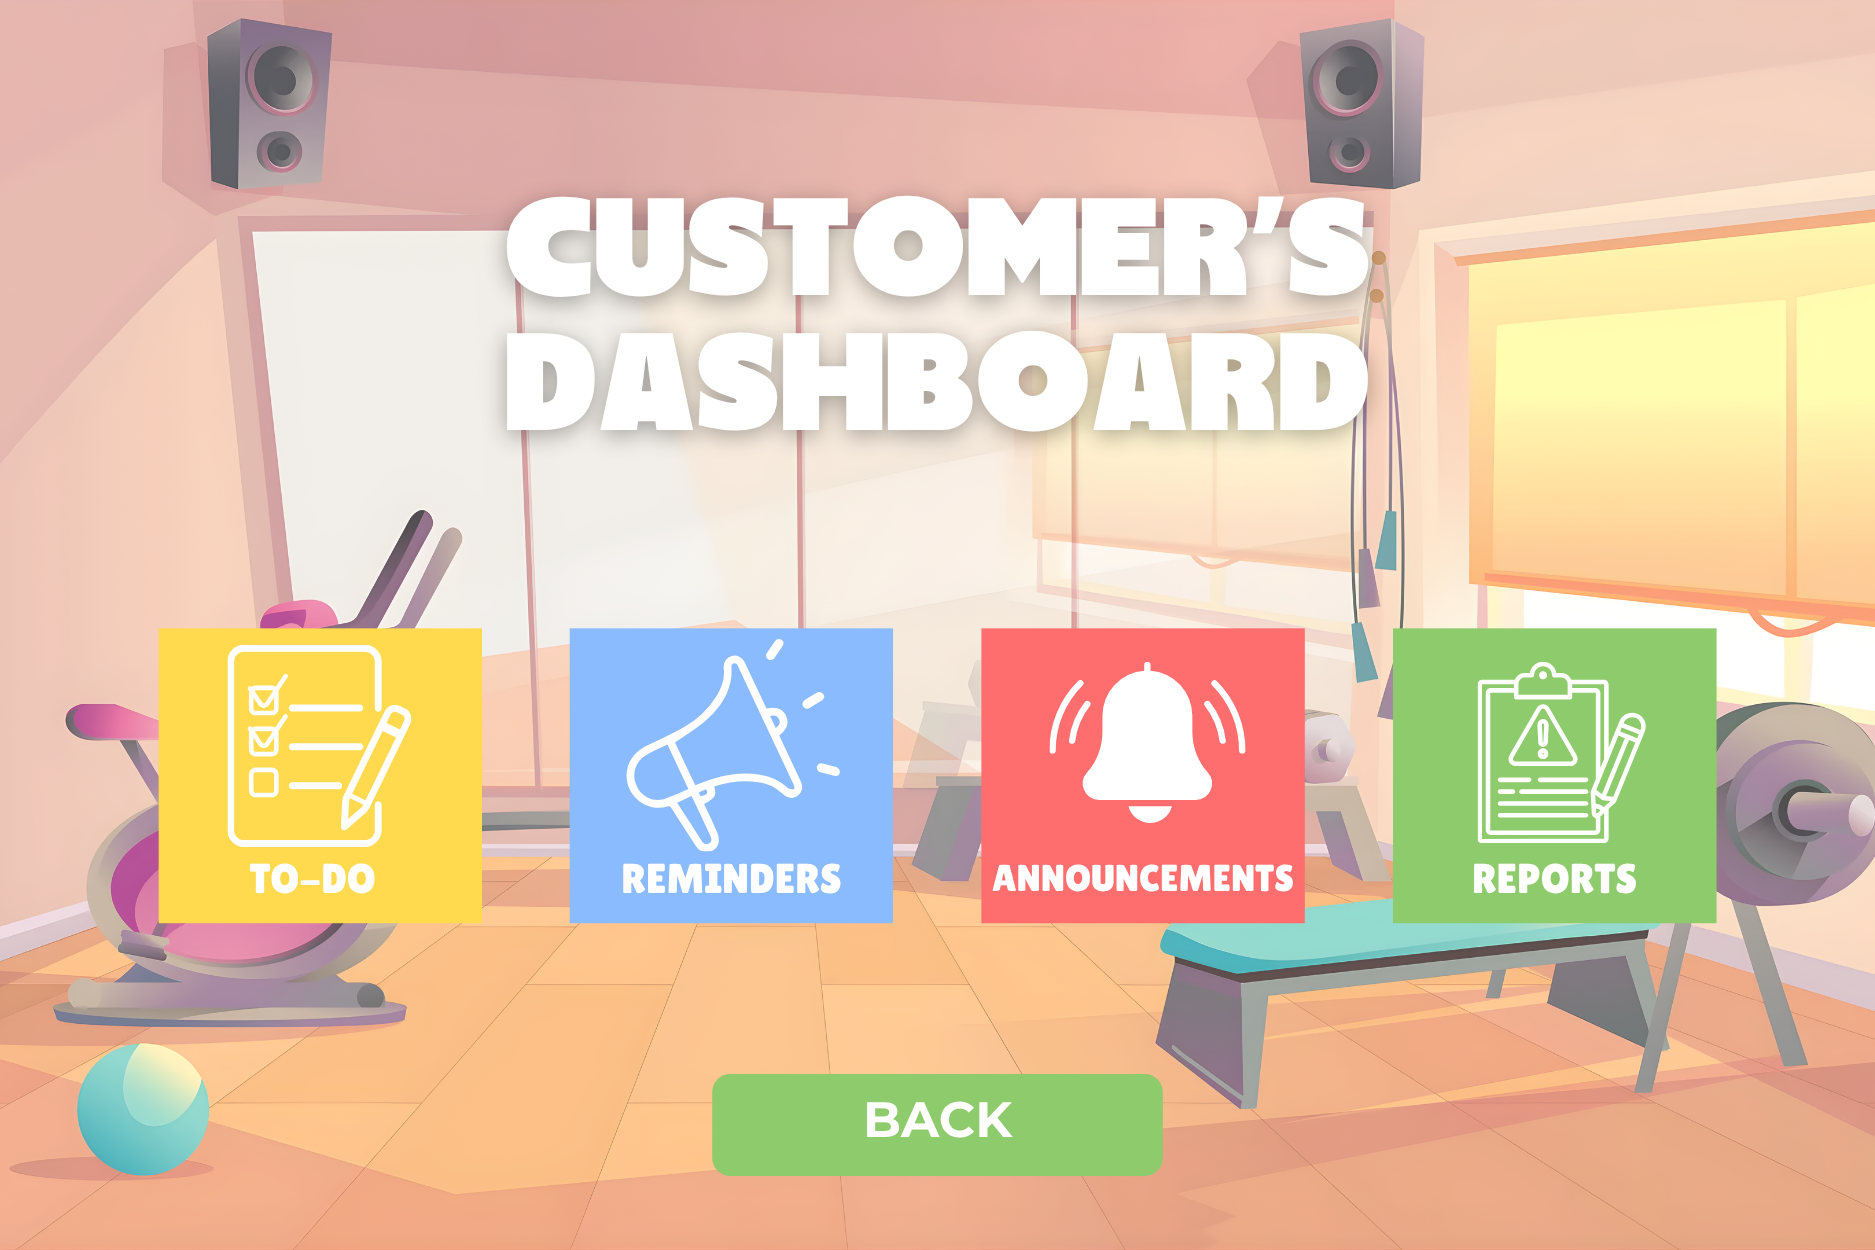
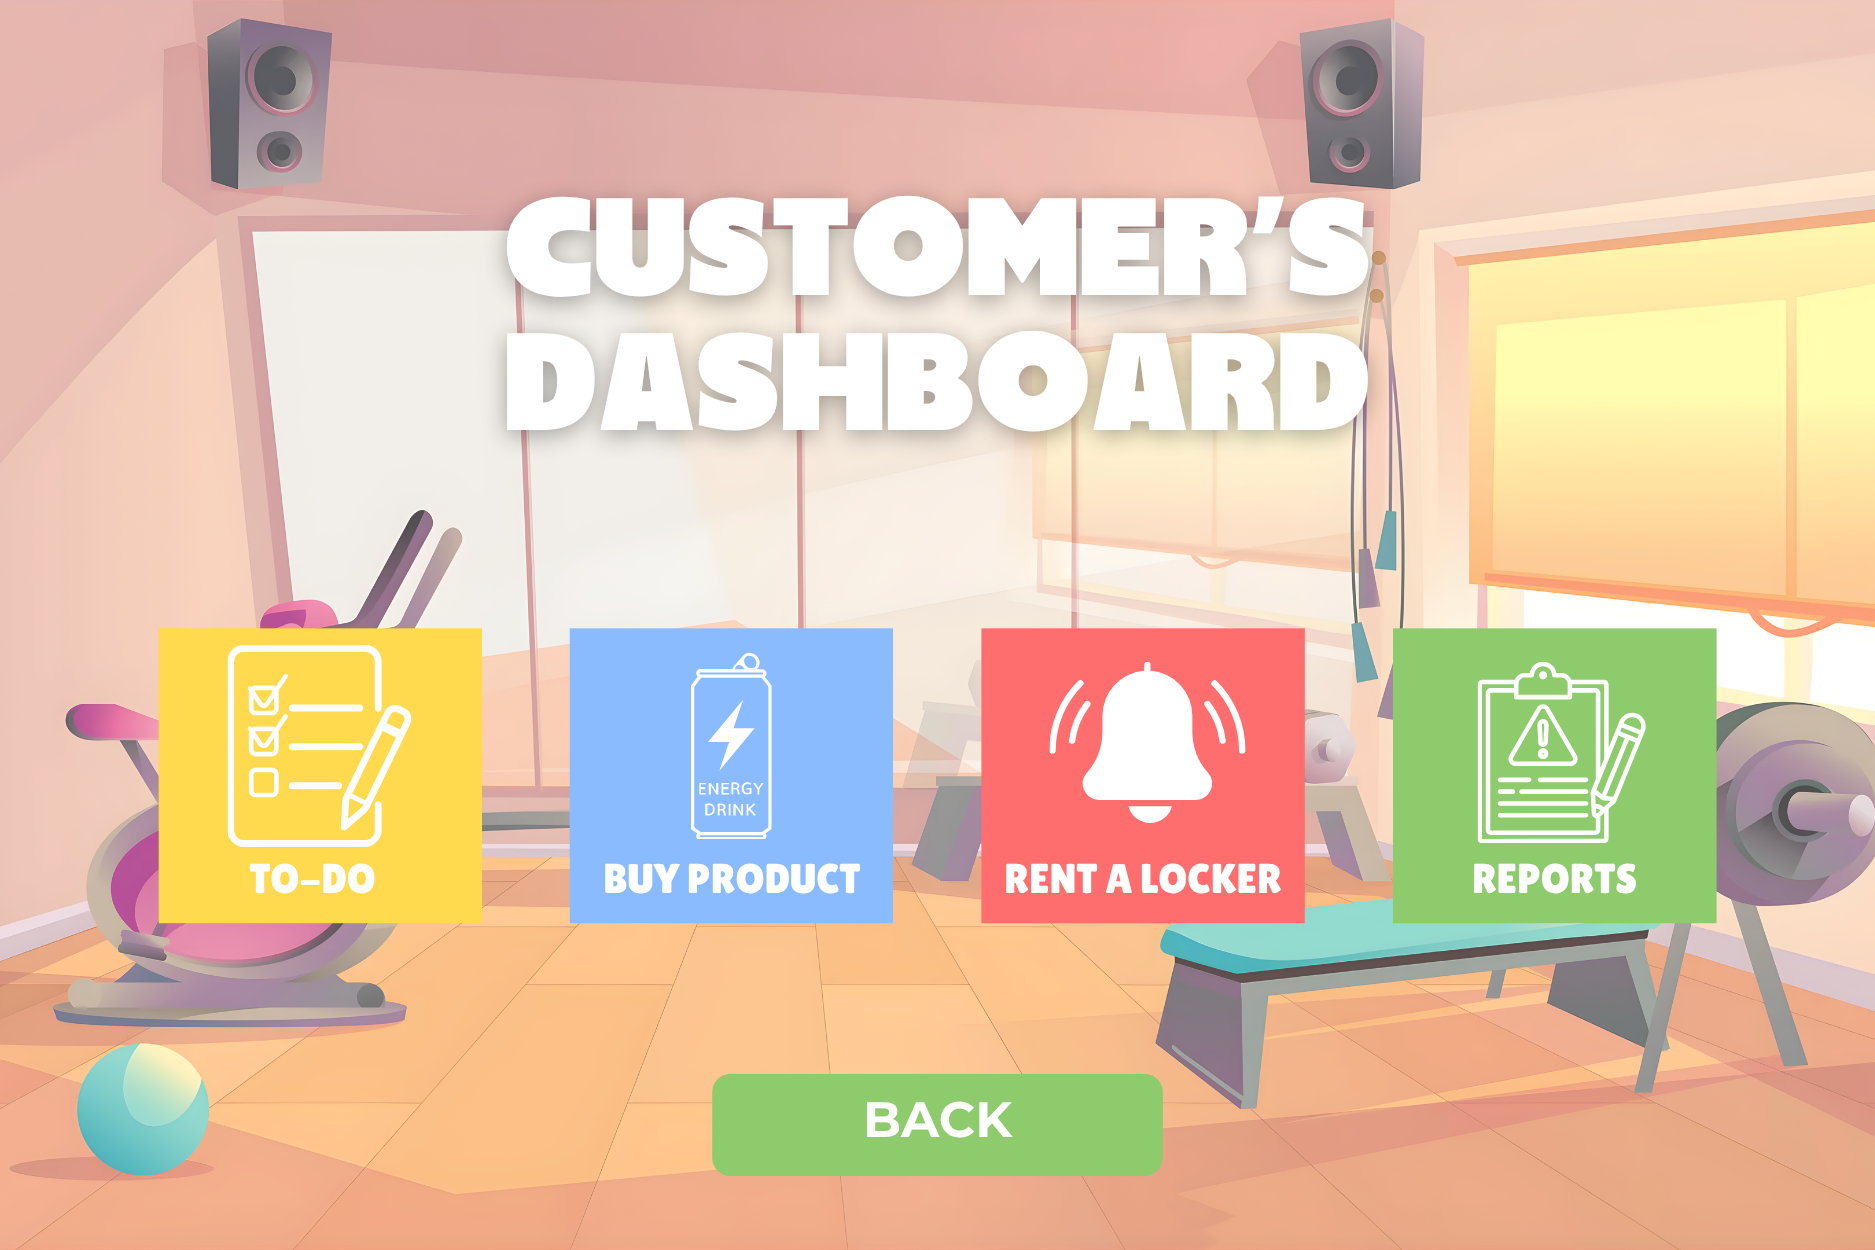
Customers Dashboard - To Do List and Reports working

Changed region(s): [[0.3093, 0.4992, 0.464, 0.7176], [0.5259, 0.6864, 0.7115, 0.7176]]

diff --git a/src/main/java/com/gymdb/controller/CustomersDashboardController.java b/src/main/java/com/gymdb/controller/CustomersDashboardController.java
@@ -25,14 +25,14 @@ public class CustomersDashboardController {
     }
 
     @FXML
-    private void handleReminders(ActionEvent event) {
-        System.out.println("Reminders clicked");
+    private void handleProduct(ActionEvent event) {
+        System.out.println("Product clicked");
         // loadNextScreen(event, "/path/to/reminders.fxml");
     }
 
     @FXML
-    private void handleAnnouncements(ActionEvent event) {
-        System.out.println("Announcements clicked");
+    private void handleLocker(ActionEvent event) {
+        System.out.println("Locker clicked");
         // loadNextScreen(event, "/path/to/announcements.fxml");
     }
 
